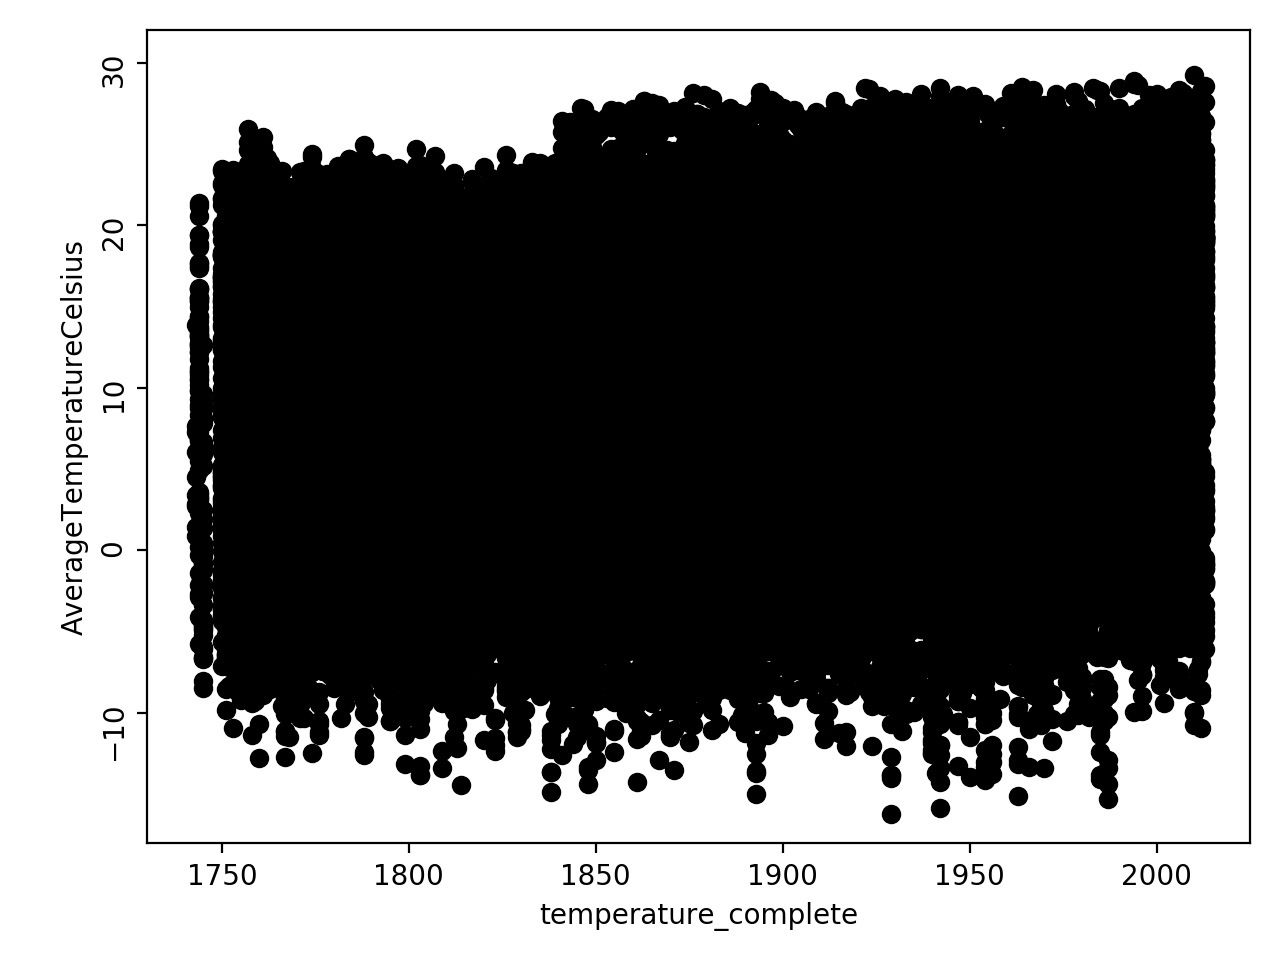
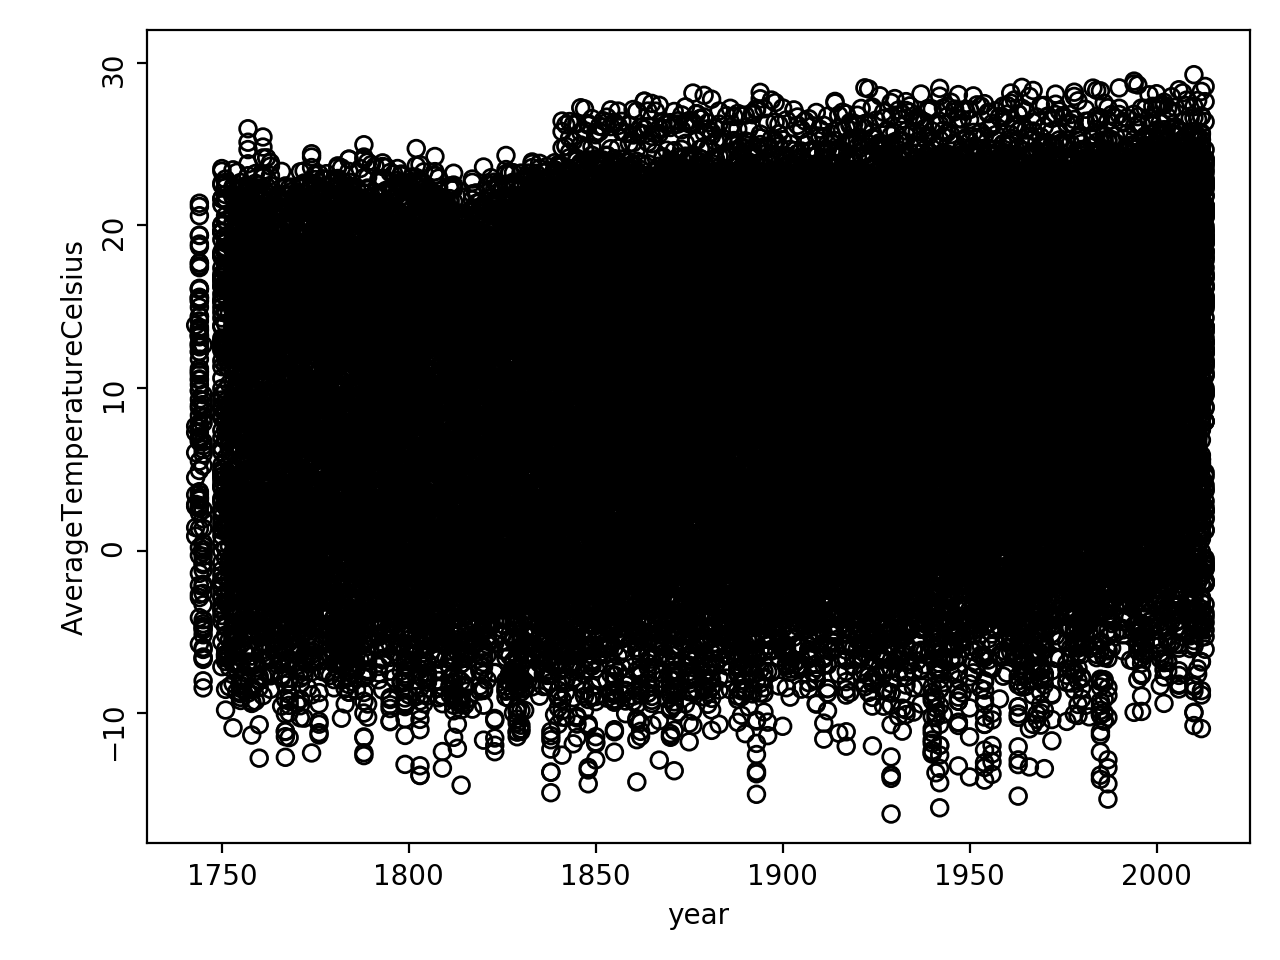
2b done

diff --git a/plot_2b.py b/plot_2b.py
@@ -2,26 +2,38 @@ import numpy as np
 import matplotlib.pyplot as plt
 import pandas as pd
 
-# plot all AverageTemperatureCelsius vs. year
-
-# import data
 data = pd.read_csv("data/temperature_clean.csv")
 years = np.asarray(data['year'])
 average_temp_celsius = np.asarray(data['AverageTemperatureCelsius'])
 del data
 
-colors = ['dodgerblue', 'orchid', 'green', 'darkorange', 'brown']
-plt.scatter(years, average_temp_celsius, edgecolor=((0, 0, 0, 1)), facecolors=((0, 0, 0, 1)), s=)
+fig, ax = plt.subplots()
+fig = plt.scatter(years, average_temp_celsius, edgecolor=((0, 0, 0, 1)), facecolors=((0, 0, 0, 1)), s=5, zorder=3)
+
+ax.set_facecolor((0.88,0.88,0.88))
+ax.set_ylim(-18, 32)
+ax.set_xlim(1730, 2025)
+ax.spines['top'].set_visible(False)
+ax.spines['bottom'].set_visible(False)
+ax.spines['right'].set_visible(False)
+ax.spines['left'].set_visible(False)
+
+major_x_ticks = np.arange(1800, 2050, 100)
+minor_x_ticks = np.arange(1750, 2050, 50)
+major_y_ticks = np.arange(-10, 32, 10)
+minor_y_ticks = np.arange(-15, 32, 5)
+
+ax.set_xticks(major_x_ticks)
+ax.set_xticks(minor_x_ticks, minor=True)
+ax.set_yticks(major_y_ticks)
+ax.set_yticks(minor_y_ticks, minor=True)
 
 plt.ylabel('AverageTemperatureCelsius')
-plt.xlabel('temperature_complete')
+plt.xlabel('year')
 plt.tight_layout()
-plt.ylim(-18, 32)
-plt.xlim(1730, 2025)
-plt.xticks(np.arange(start=1750,stop=2050, step=50))
-plt.yticks(np.arange(start=-10, stop=32, step=10), rotation='vertical')
+plt.grid(True, zorder=0, color='white')
+ax.grid(True, zorder=0, color='white', which='minor', linewidth=0.4)
+ax.grid(True, zorder=0, color='white', which='major', linewidth=1)
+
 plt.savefig('plots/2b.png', dpi=200)
 plt.clf()
-
-
-

diff --git a/plot_2a.py b/plot_2a.py
@@ -2,19 +2,15 @@ import numpy as np
 import matplotlib.pyplot as plt
 import pandas as pd
 
-# plot all AverageTemperatureCelsius vs. year
-
-# import data
 data = pd.read_csv("data/temperature_clean.csv")
 years = np.asarray(data['year'])
 average_temp_celsius = np.asarray(data['AverageTemperatureCelsius'])
 del data
 
-colors = ['dodgerblue', 'orchid', 'green', 'darkorange', 'brown']
-plt.scatter(years, average_temp_celsius, alpha= 1, edgecolor=((0, 0, 0, 1)), facecolors='none')
+plt.scatter(years, average_temp_celsius, edgecolor=((0, 0, 0, 1)), facecolors='none')
 
 plt.ylabel('AverageTemperatureCelsius')
-plt.xlabel('temperature_complete')
+plt.xlabel('year')
 plt.tight_layout()
 plt.ylim(-18, 32)
 plt.xlim(1730, 2025)
@@ -22,6 +18,3 @@ plt.xticks(np.arange(start=1750,stop=2050, step=50))
 plt.yticks(np.arange(start=-10, stop=32, step=10), rotation='vertical')
 plt.savefig('plots/2a.png', dpi=200)
 plt.clf()
-
-
-
